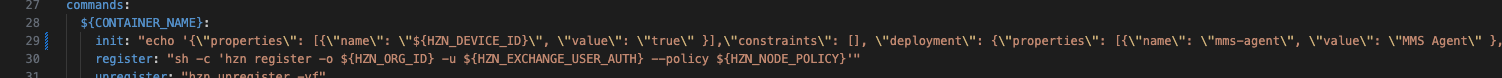
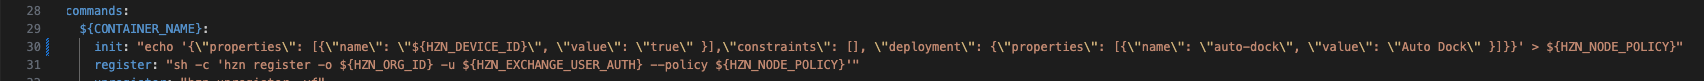
update readme and samsung demo app

diff --git a/build/common/main.js b/build/common/main.js
@@ -63,6 +63,7 @@ class Main {
             (0, fs_1.mkdirSync)(this.configPath);
         }
         if ((0, fs_1.existsSync)(this.configFile)) {
+            console.log(this.configFile, this.org);
             this.envar = JSON.parse((0, fs_1.readFileSync)(this.configFile).toString())[this.org];
         }
         // initialize vars needed for token replacement in dockerfile-template file
@@ -115,10 +116,15 @@ class Main {
     makeDeploy() {
         return new rxjs_1.Observable((observer) => {
             let $build = {}, i = 0;
-            $build[i++] = this.makeSystemFiles();
-            $build[i++] = this.adbPushDreamAgent();
-            (0, rxjs_1.forkJoin)($build)
-                .subscribe(() => { observer.next(); observer.complete(); });
+            this.makeSystemFiles()
+                .subscribe(() => {
+                $build[i++] = this.adbPushDreamAgent();
+                $build[i++] = this.adbPushHorizon();
+                $build[i++] = this.adbPushPolicy();
+                $build[i++] = this.adbPushCert();
+                (0, rxjs_1.forkJoin)($build)
+                    .subscribe(() => { observer.next(); observer.complete(); });
+            });
         });
     }
     makeSystemFiles() {
@@ -228,6 +234,48 @@ class Main {
             const dreamAgentPath = this.envar.DREAM_AGENT_PATH || '/sdcard/Android/data/com.srbr.dreamagent/files/docker/';
             const arg = `adb push ${this.distPath}/${this.dreamAgentName} ${dreamAgentPath}`;
             this.shell(arg, `done pushing ${this.dreamAgentName}`, `failed to push ${this.dreamAgentName}`, false)
+                .subscribe({
+                complete: () => { },
+                error: (err) => {
+                    console.log(err);
+                }
+            });
+            observer.next();
+            observer.complete();
+        });
+    }
+    adbPushCert() {
+        return new rxjs_1.Observable((observer) => {
+            const arg = `adb push ${this.envar.PROVIDE_CERT} /data/var/agent-install.crt`;
+            this.shell(arg, `done pushing cert`, `failed to push cert`, false)
+                .subscribe({
+                complete: () => { },
+                error: (err) => {
+                    console.log(err);
+                }
+            });
+            observer.next();
+            observer.complete();
+        });
+    }
+    adbPushHorizon() {
+        return new rxjs_1.Observable((observer) => {
+            const arg = `adb push ${this.distPath}/horizon /data/var`;
+            this.shell(arg, `done pushing horizon`, `failed to push horizon`, false)
+                .subscribe({
+                complete: () => { },
+                error: (err) => {
+                    console.log(err);
+                }
+            });
+            observer.next();
+            observer.complete();
+        });
+    }
+    adbPushPolicy() {
+        return new rxjs_1.Observable((observer) => {
+            const arg = `adb push ${this.distPath}/node.policy.json /data/var`;
+            this.shell(arg, `done pushing node policy`, `failed to push node policy`, false)
                 .subscribe({
                 complete: () => { },
                 error: (err) => {

diff --git a/src/common/main.ts b/src/common/main.ts
@@ -85,6 +85,7 @@ export class Main {
       mkdirSync(this.configPath)
     }
     if(existsSync(this.configFile)) {
+      console.log(this.configFile, this.org)
       this.envar = JSON.parse(readFileSync(this.configFile).toString())[this.org];
     }
 
@@ -140,10 +141,15 @@ export class Main {
   makeDeploy() {
     return new Observable((observer) => {
       let $build = {}, i = 0;
-      $build[i++] = this.makeSystemFiles();
-      $build[i++] = this.adbPushDreamAgent();
-      forkJoin($build)
-      .subscribe(() => { observer.next(); observer.complete()})
+      this.makeSystemFiles()
+      .subscribe(() => {
+        $build[i++] = this.adbPushDreamAgent();
+        $build[i++] = this.adbPushHorizon();
+        $build[i++] = this.adbPushPolicy();
+        $build[i++] = this.adbPushCert();
+        forkJoin($build)
+        .subscribe(() => { observer.next(); observer.complete()})  
+      })
     })    
   }
   makeSystemFiles() {
@@ -248,6 +254,48 @@ export class Main {
       const dreamAgentPath = this.envar.DREAM_AGENT_PATH || '/sdcard/Android/data/com.srbr.dreamagent/files/docker/';
       const arg = `adb push ${this.distPath}/${this.dreamAgentName} ${dreamAgentPath}`;
       this.shell(arg,`done pushing ${this.dreamAgentName}`, `failed to push ${this.dreamAgentName}`, false)
+      .subscribe({
+        complete: () => {},
+        error: (err) => {
+          console.log(err)
+        }
+      })
+      observer.next();
+      observer.complete();  
+    })    
+  }
+  adbPushCert() {
+    return new Observable((observer) => {
+      const arg = `adb push ${this.envar.PROVIDE_CERT} /data/var/agent-install.crt`;
+      this.shell(arg,`done pushing cert`, `failed to push cert`, false)
+      .subscribe({
+        complete: () => {},
+        error: (err) => {
+          console.log(err)
+        }
+      })
+      observer.next();
+      observer.complete();  
+    })    
+  }
+  adbPushHorizon() {
+    return new Observable((observer) => {
+      const arg = `adb push ${this.distPath}/horizon /data/var`;
+      this.shell(arg,`done pushing horizon`, `failed to push horizon`, false)
+      .subscribe({
+        complete: () => {},
+        error: (err) => {
+          console.log(err)
+        }
+      })
+      observer.next();
+      observer.complete();  
+    })    
+  }
+  adbPushPolicy() {
+    return new Observable((observer) => {
+      const arg = `adb push ${this.distPath}/node.policy.json /data/var`;
+      this.shell(arg,`done pushing node policy`, `failed to push node policy`, false)
       .subscribe({
         complete: () => {},
         error: (err) => {

diff --git a/build/common/main.d.ts b/build/common/main.d.ts
@@ -29,6 +29,9 @@ export declare class Main {
     makeDreamAgentYaml(): Observable<unknown>;
     makeDockerFile(): Observable<unknown>;
     adbPushDreamAgent(): Observable<unknown>;
+    adbPushCert(): Observable<unknown>;
+    adbPushHorizon(): Observable<unknown>;
+    adbPushPolicy(): Observable<unknown>;
     makeDirectories(): Observable<unknown>;
     listDir(dirName: any): Observable<unknown>;
     makeDir(dirName: any): Observable<unknown>;

diff --git a/README.md b/README.md
@@ -33,9 +33,6 @@ oha deploy makeDeploy --org=samsung
 # Notes
 Typically, the following command is usually what you need to run to generate the config files and push application.yaml to the phone if all the needed values are provided in /hzn-config/.env-local.json file for a particular device.
 
-Update the deployment properties as needed in the init section of dream-agent.yaml file 
-![Alt text](image-1.png)
-
 ```
 oha deploy makeDeploy --org=samsung-R3CT307YNNW
 ```
@@ -99,3 +96,7 @@ After the command completed:
 
 - The containerized applications/services should be up and running once the agreement is reached and deployment is complete.
 - Docker ps or from DreamAgent UI should show the apps that are running
+
+# Screen recording of Samsung Demo web app to showcase different use cases
+<video src="geofencing.mp4" controls="controls" style="max-width: 730px;">
+</video>
